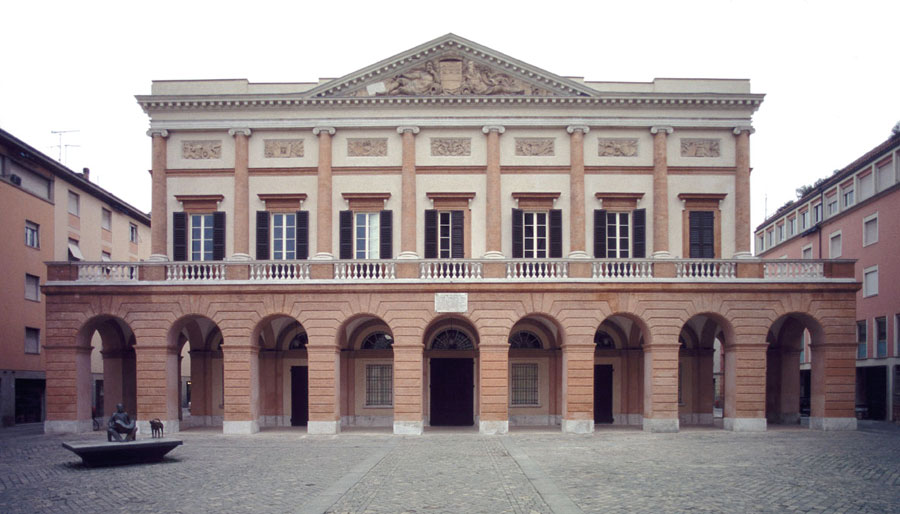
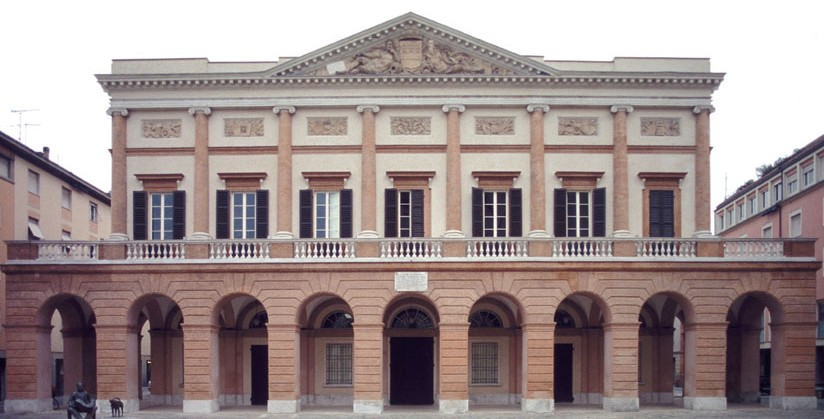
Fixed comparing zeus

diff --git a/src/02-Archita/ComparingZeus.py b/src/02-Archita/ComparingZeus.py
@@ -8,14 +8,15 @@ class ZeusAConfronto(Scene):
             return (x_coord, y_coord, 0)
 
 
-        from_edge_distance = 1.5
+        from_edge_distance = 1
         teatro = ImageMobject("../assets/Teatro_Comunale_Alessandro_Bonci.jpg")\
+            .scale(1.5)\
             .to_edge(LEFT)\
             .shift(RIGHT*from_edge_distance)
         zeus = ImageMobject("../assets/zeus_bianco-nobg.png")\
-            .scale(1.5)\
             .to_edge(RIGHT)\
             .shift(LEFT*from_edge_distance)
+        zeus.shift(DOWN*(zeus.get_bottom()[1]-teatro.get_bottom()[1]))
 
         zeus_height_indicator = Line(
             start=(zeus.get_bottom()[0], zeus.get_bottom()[1]-.5, 0), 
